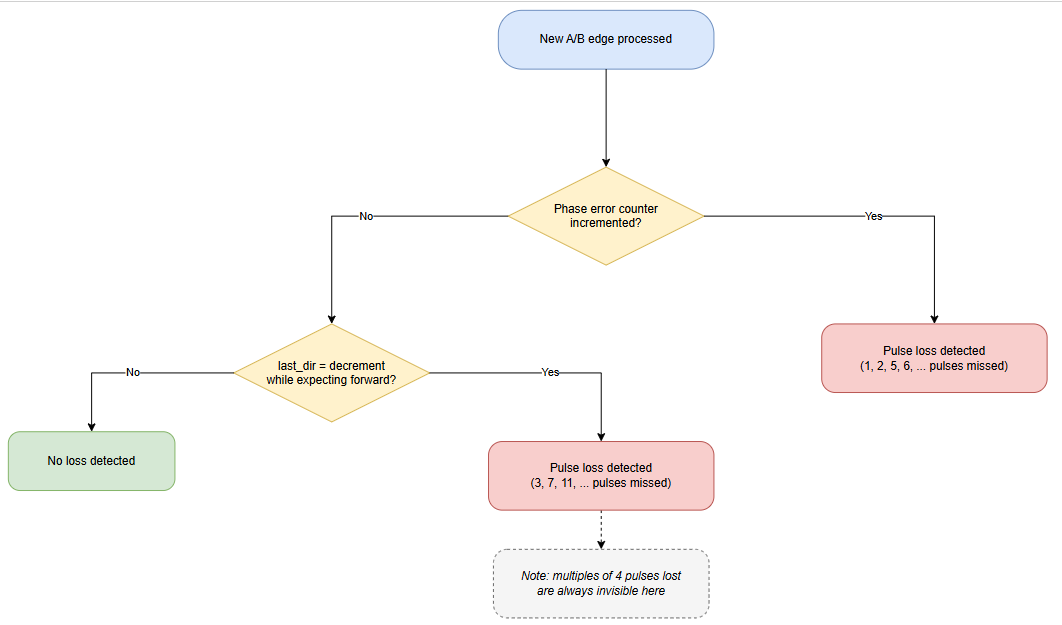
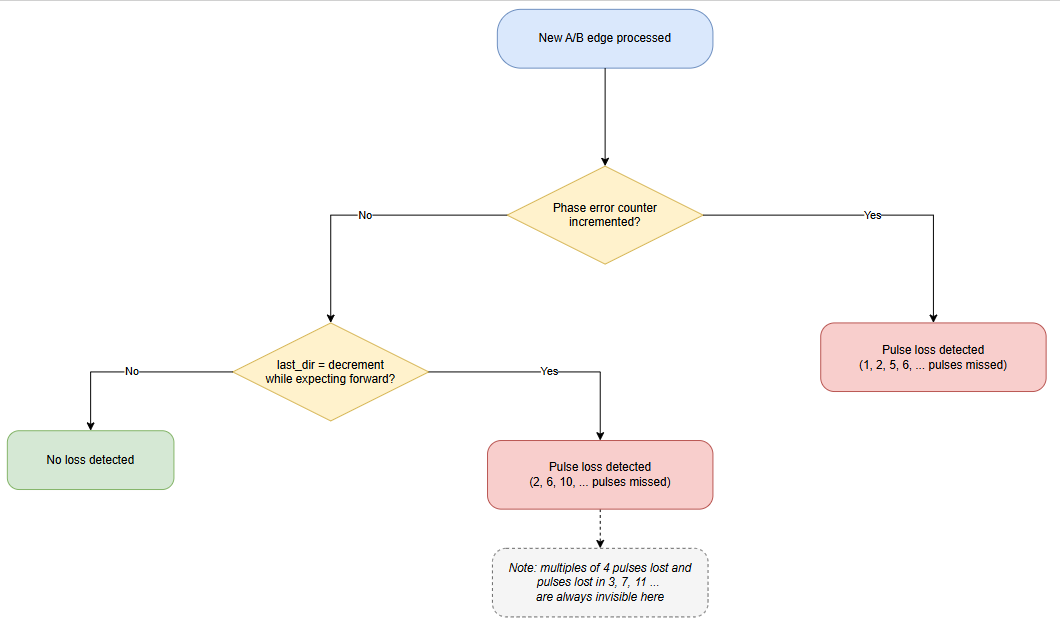
pru_eqep: fix projectspecs and readme after PR155 review
Address review feedback on PR155: update the per-core example.projectspec
files, the readme and the pulse loss flow chart.

diff --git a/examples/pru_eqep/readme.md b/examples/pru_eqep/readme.md
@@ -1,5 +1,13 @@
 # PRU EQEP Project
 
+## Introduction
+
+This example provides a PRU-based implementation of an eQEP (quadrature encoder) peripheral using the six PRU cores of ICSSG0 to enable six channels. The firmware emulates hardware eQEP functionality for incremental encoders, providing position counting, direction detection, speed calculation, and phase-error detection for up to six independent channels. The design is intended as a software alternative to the hardware eQEP peripheral, with R5F application code for polling or interrupt-driven readout.
+
+## Overview
+
+The PRU EQEP project targets AM243x-LP devices and uses RTU_PRU, PRU, and TX_PRU cores to process A/B quadrature signals. Each channel implements edge detection with timestamp capture, LUT-based quadrature decoding, and a wrap-around position counter with configurable QPOSMAX. Firmware publishes position, speed, direction, and phase-error counters to PRU DMEM, which the R5F application reads. Key capabilities include multi-channel simultaneous operation, phase-error and pulse-loss detection, and support for both simulated ePWM sources and real physical encoders.
+
 ## 1. Testing Done
 
 The PRU eQEP implementation has been bench-validated against a real hardware eQEP peripheral (AM263x-LP, `eqep_position_speed` example) and a physical incremental encoder. Summary of what has been run:
@@ -232,10 +240,12 @@ Check create_lut() (line 545) to see which transitions are marked as phase error
 |---|---|---| 
 |1, 5, 9, ...	| Diagonal transition |	Phase error
 |2, 6, 10, ...	|Looks like a reverse step	| Direction = decrement
-|3, 7, 11, ...	|Looks like a reverse step	| Direction = decrement
-|4, 8, 12, ...	|Lands back on the same state	| Not detected
+|3, 7, 11, ...	|same state	| Not detected 
+|4, 8, 12, ...	|normal forward behavior	| Not detected
 
-Losing a multiple of 4 pulses brings the state machine back to where it would have been anyway — there's nothing left to notice. This is a limitation of quadrature encoding itself, not something the firmware can fix. A Z (index) pulse would close this gap, but Z is not used in this design.
+Losing pulses in count of 3, 7, 11, ... brings the A, B signals to the same state machine and losing pulses in count of 4,8,12 looks like a normal forward step — there's nothing left to notice. This is a limitation of quadrature encoding itself, not something the firmware can fix. A Z (index) pulse would close this gap, but Z is not used in this design.
+
+Pulse loss leaves QPOS short by N (number of pulses lost) counts 
 
 Check out the below flow chart for more details :
 
@@ -247,7 +257,24 @@ Check out the below flow chart for more details :
 
 **Not yet runtime-configurable** — this is a per-build constant today, shared identically across all 6 cores/channels.
 
-## 9. References
+## 9. Steps to run the example 
+
+1. Open CCS and import the PRU EQEP example (open-pru\examples\pru_eqep) from the Open-pru repo. Make sure to import projects corresponding to r5fss0-0, icss_g0_pru0, icss_g0_pru1, icss_g0_rtu_pru0, icss_g0_rtu_pru1, icss_g0_tx_pru0, icss_g0_tx_pru1 as all six cores are utilised in this example.
+
+2. Build the pru0, pru1, tx_pru0, tx_pru1, rtu_pru0, rtu_pru1 projects first. This ensures that the header files with the binary for all six cores are generated
+
+3. Now build the project pru_eqep_am243x-lp_r5fss0-0_freertos_ti-arm-clang (Here after will be called r5f project).
+ 
+4. Connect the Encoder to the PRU GPI pins corresponding to each channel as per configuration made in `firmware/include/memory.inc`. Refer point 6 for connection details 
+
+5. Power on the AM243x Launch Pad. It is recommended to go through the "Getting started" section of MCU + SDK if this is your first time working on the launchpad.
+ 
+6. Set up Target configuration window from View>>Target Configuration. Then launch any project target configuration by right clicking on the AM2434_ALX.ccxml file and selecting "launch selected configuration"
+
+7. From the debug window, select the r5f project and load the corresponding .out file and then press the "Resume" button to start the example in debug mode.  
+
+
+## 10. References
 
 - [PRU-ICSS Documentation](https://www.ti.com/tool/PRU-ICSS)
 - [MCU+ SDK AM243x](https://www.ti.com/tool/MCU-PLUS-SDK-AM243X)
@@ -255,3 +282,17 @@ Check out the below flow chart for more details :
 - [PRU-CGT (ti-pru-cgt) tool page](https://www.ti.com/tool/PRU-CGT) — required toolchain, see Steps to Run
 - SPRU790D — [AM243x/AM64x eQEP peripheral reference](https://www.ti.com/lit/ug/spruim2h/spruim2h.pdf) (real hardware eQEP semantics this PRU implementation approximates: diagonal-transition/phase-error definition, QPOSMAX/PCRM behavior)
 - [PRU-ICSS Reference Guide](https://www.ti.com/lit/ug/spruij1/spruij1.pdf) — PRU core architecture, DMEM/load-share mode, INTC
+
+## 11. Supported Combinations
+
+Refer to open-pru/examples/readme.md > Supported processors per-project
+for the list of processors that support building this project, and information
+about porting this project to other processors.
+
+## 12. Validated HW & SW
+
+This project was tested on hardware with these software versions:
+
+| Processor | Hardware | Software                                |
+| --------- | -------- | --------------------------------------- |
+| am243x    | LP-AM243 | MCU PLUS SDK 11.1.0.19, OpenPRU 2026.02.00 |
